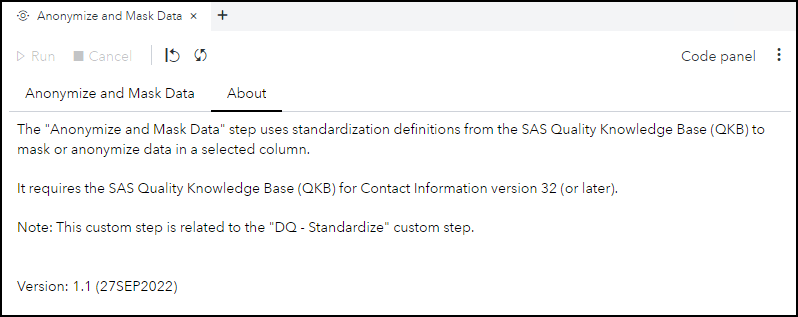
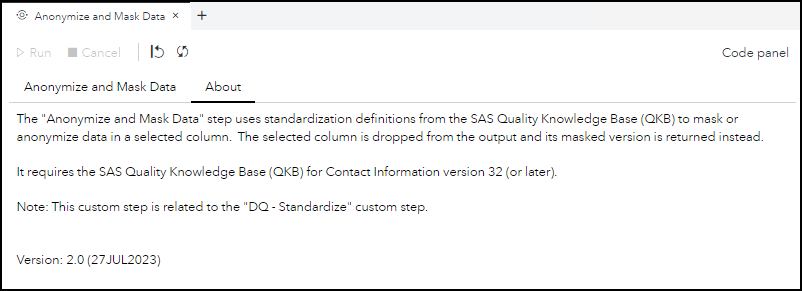
Updated Anonymize and Mask Data step

diff --git a/Anonymize and Mask Data/README.md b/Anonymize and Mask Data/README.md
@@ -2,7 +2,7 @@
 
 ## Description
 
-The **Anonymize and Mask Data** custom step enables SAS Studio users to select a standardization definition from the [SAS Quality Knowledge Base (QKB)](https://support.sas.com/en/software/quality-knowledge-base-support.html#documentation) to mask or anonymize data in a selected column.  [This blog](https://communities.sas.com/t5/SAS-Communities-Library/Viya-2020-1-5-April-2021-Introducing-Custom-Steps-in-SAS-Studio/ta-p/744463) describes the creation of this custom step.  Note: The *Masked column name* control and the *About* tab was added after this blog was written.
+The **Anonymize and Mask Data** custom step enables SAS Studio users to select a standardization definition from the [SAS Quality Knowledge Base (QKB)](https://support.sas.com/en/software/quality-knowledge-base-support.html#documentation) to mask or anonymize data in a selected column.  The selected column is dropped from the output and its masked version is returned instead.
 
 Note: This custom step is related to the [DQ - Standardize](https://github.com/sassoftware/sas-studio-custom-steps/tree/main/DQStandardize) custom step.
 
@@ -10,17 +10,16 @@ Note: This custom step is related to the [DQ - Standardize](https://github.com/s
 
 * ### **Anonymize and Mask Data** tab ###
 
-   | Standalone mode | Flow mode |
-   | --- | --- |
-   | ![](img/Anonymize_and_Mask_Data_StandAlone.png) | ![](img/Anonymize_and_Mask_Data_Flow.png) |
-* ### **About** tab ###
+![](img/Anonymize_and_Mask_Data.png)
+ * ### **About** tab ###
 
    ![](img/Anonymize_and_Mask_Data_About.png)
+
+&nbsp;
 ## Requirements
 
-* SAS Viya 2020.1.5 or later
+* SAS Viya 2023.06 or later
 * SAS Quality Knowledge Base for Contact Information version 32 or later
-
 
 ## Usage
 
@@ -28,6 +27,9 @@ Note: This custom step is related to the [DQ - Standardize](https://github.com/s
 
 ## Change Log
 
+* Version 2.0 (19JUL2023)
+    * Updated step to use **DM_MKDEF** table from the **SASDQREF** library to populate drop-down lists for QKB locale and definition
+    * Drops the column that is being masked
 * Version 1.1 (27SEP2022)
     * Made New Column control required
 * Version 1.0 (15SEP2022)

diff --git a/CUSTOM_STEPS_LIST.md b/CUSTOM_STEPS_LIST.md
@@ -3,7 +3,7 @@
 | Name | Brief Description | Owner/Contact | Viya Version Supported | Last Update |
 | --- | --- | :-: | --- | ---|
 | [_template](./_template/README.md) | Template to use for contributions | [SAS](https://github.com/sassoftware) | 2020.1.5 or later | 26AUG2022 |
-| [Anonymize and Mask Data](./Anonymize%20and%20Mask%20Data/README.md) | Anonymize and Mask Data using QKB definitions | [Mary Kathryn Queen](https://github.com/maquee-sas) | 2020.1.5 or later | 27SEP2022 |
+| [Anonymize and Mask Data](./Anonymize%20and%20Mask%20Data/README.md) | Anonymize and Mask Data using QKB definitions | [Mary Kathryn Queen](https://github.com/maquee-sas) | 2023.06 or later | 17JUL2023 |
 | [Append Table](./Append%20Table/README.md) | Appends data to a target table with support for maintaining unique incremental id | [Torben Juul Johansson](https://github.com/torbenjuul) | 2020.1.5 or later | 26OCT2022 |
 | [CAS - Convert Char to Varchar](./CAS%20–%20Convert%20Char%20to%20Varchar/README.md) | Create a copy of a table and convert chars to varchars | [Carlo Petti](https://github.com/itacrp) | 2023.01 or later | 08FEB2023 |
 | [CAS - Generate unique ID](./CAS%20-%20Generate%20Unique%20ID/README.md) | Generates a new column containing a unique identifier (ID) per observation for a given input CAS table | [Sundaresh Sankaran](https://github.com/SundareshSankaran) | 2022.11 or later | 07FEB2023 |
